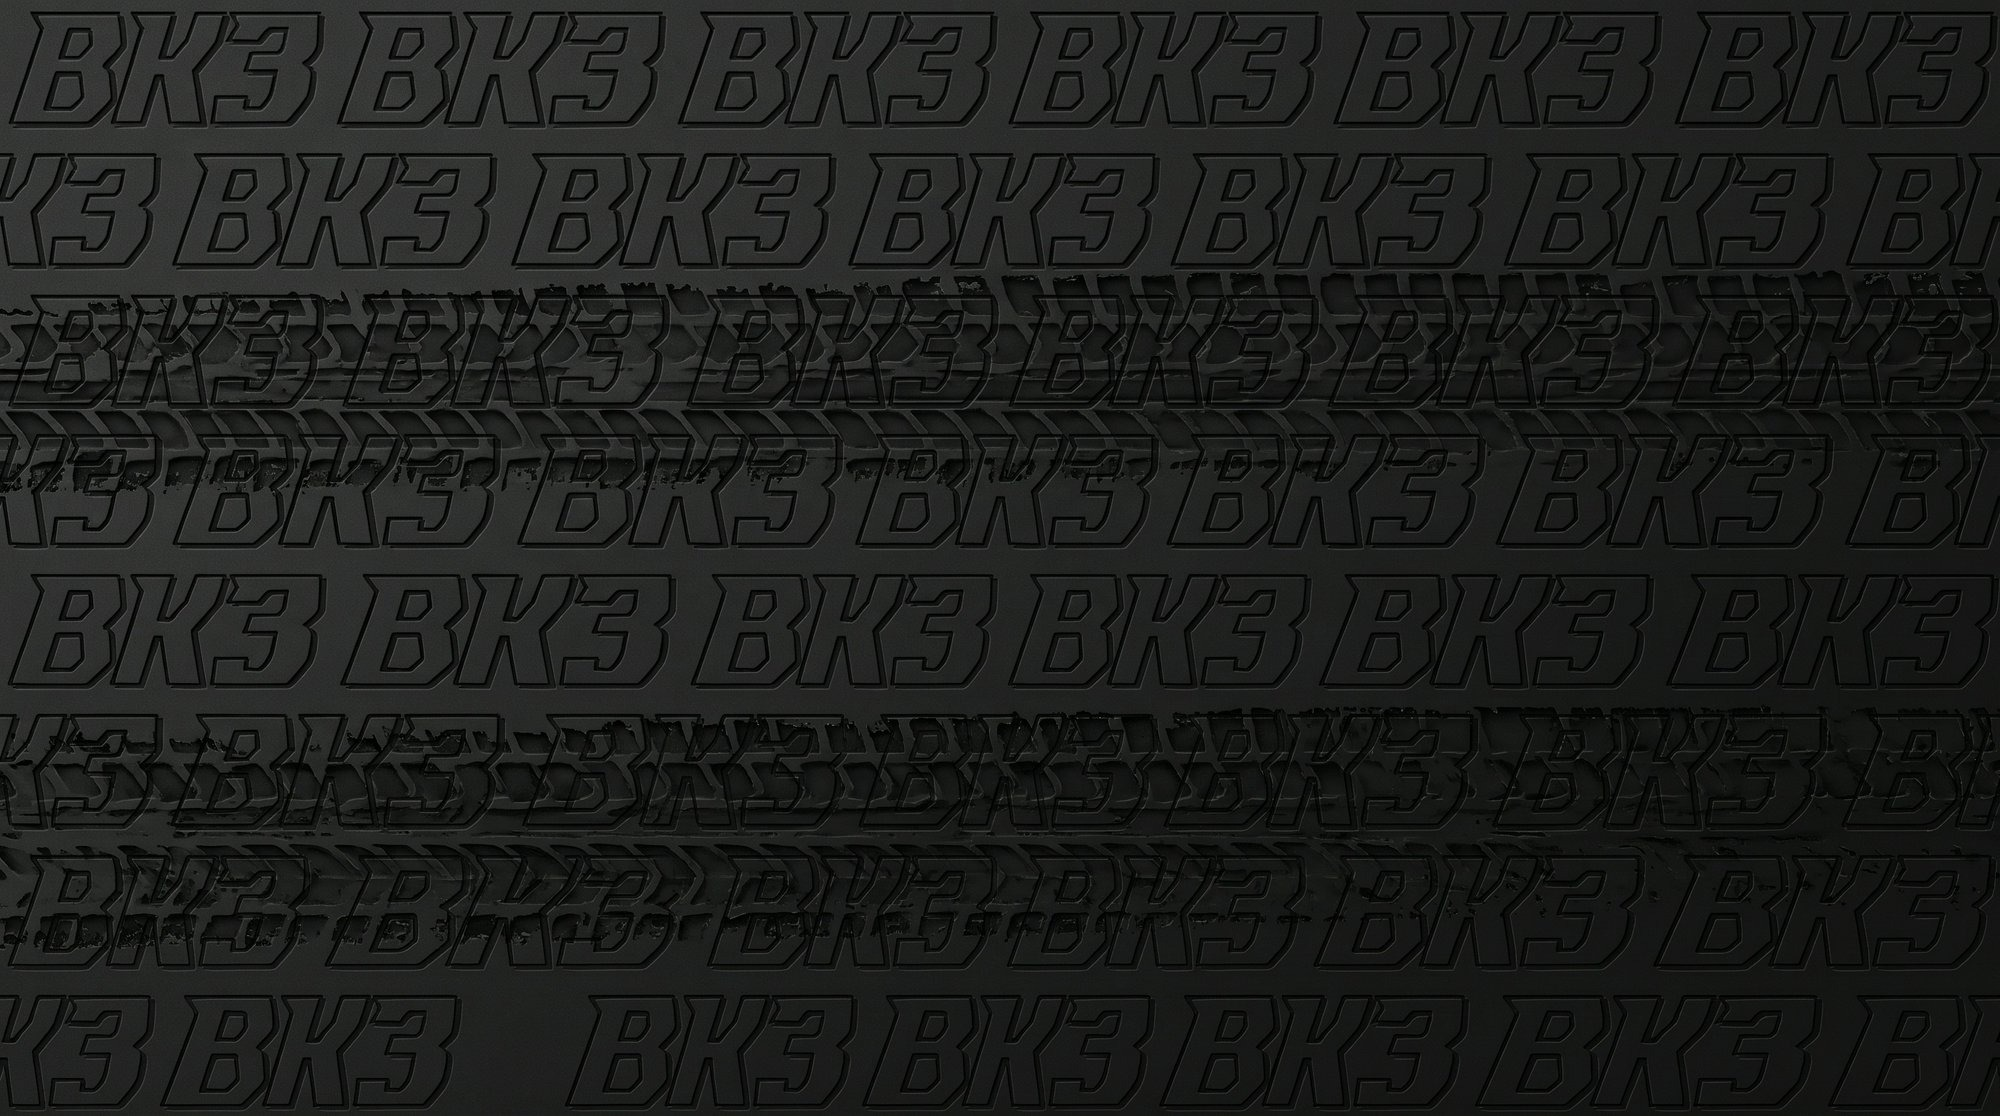
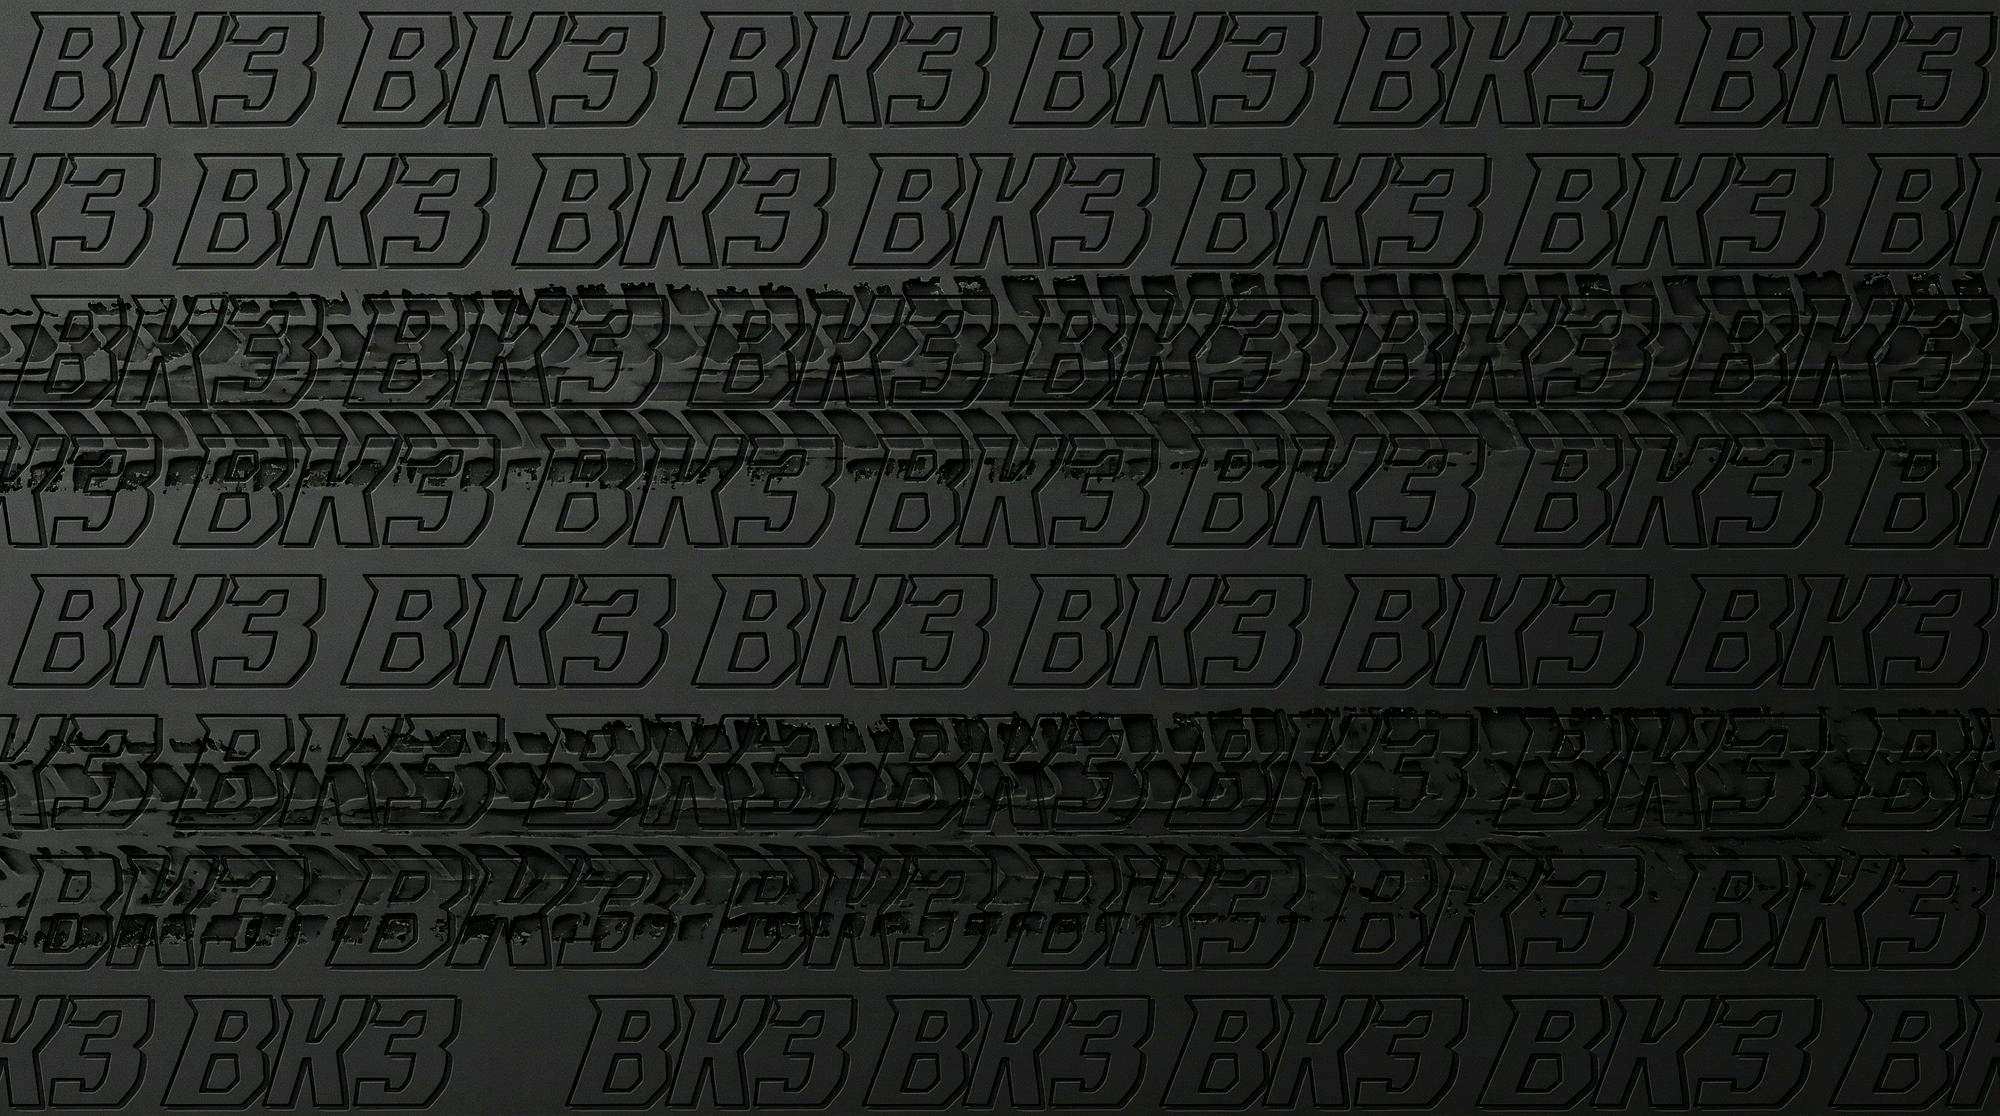
fix: Realce de contraste en textura de fondo BK3 y cache-busting en CSS/JS para forzar recarga inmediata en el navegador

diff --git a/index.html b/index.html
@@ -4,7 +4,7 @@
   <meta charset="UTF-8">
   <meta name="viewport" content="width=device-width, initial-scale=1.0, maximum-scale=5.0">
   <title>BK3 Octane Booster | Catálogo & Brochure Digital Oficial</title>
-  <link rel="stylesheet" href="css/style.css">
+  <link rel="stylesheet" href="css/style.css?v=20261115_bg2">
   <link rel="icon" type="image/png" href="assets/logos/BK3_solo_nombre_transparente.png">
 </head>
 <body>
@@ -520,6 +520,6 @@
   <!-- Librerías Externas y Controlador Principal -->
   <script src="js/gsap.min.js"></script>
   <script src="js/page-flip.browser.js"></script>
-  <script src="js/app.js"></script>
+  <script src="js/app.js?v=20261115_bg2"></script>
 </body>
 </html>

diff --git a/css/style.css b/css/style.css
@@ -406,13 +406,11 @@ html, body {
   display: flex;
   align-items: center;
   justify-content: center;
-  background-color: #090d12;
-  background-image: 
-    radial-gradient(ellipse at 50% 50%, rgba(15, 21, 30, 0.35) 0%, rgba(6, 9, 13, 0.85) 100%),
-    url('../assets/bk3_pattern_bg.webp');
-  background-size: cover, cover;
-  background-position: center center, center center;
-  background-repeat: no-repeat, no-repeat;
+  background-color: #12161c;
+  background-image: url('../assets/bk3_pattern_bg.webp');
+  background-size: cover;
+  background-position: center center;
+  background-repeat: no-repeat;
   padding: 8px;
 }
 
